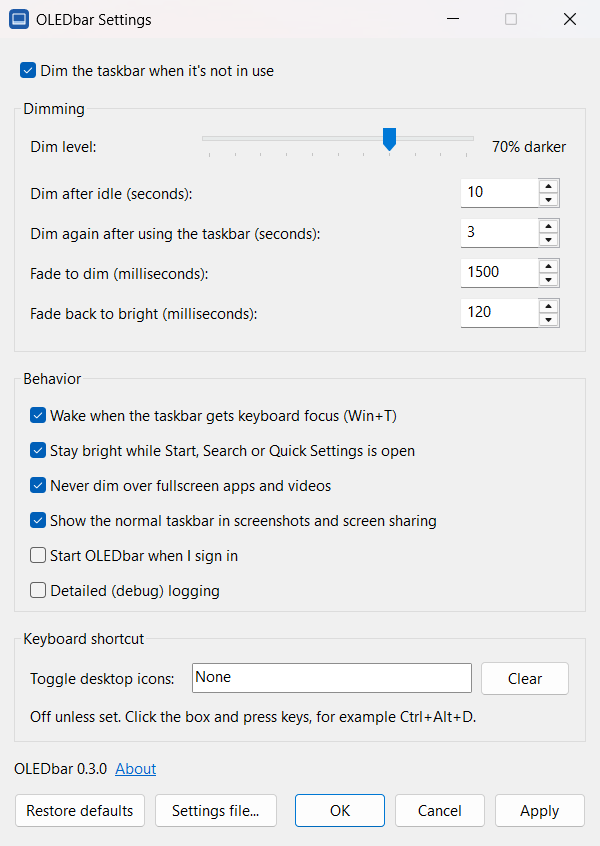
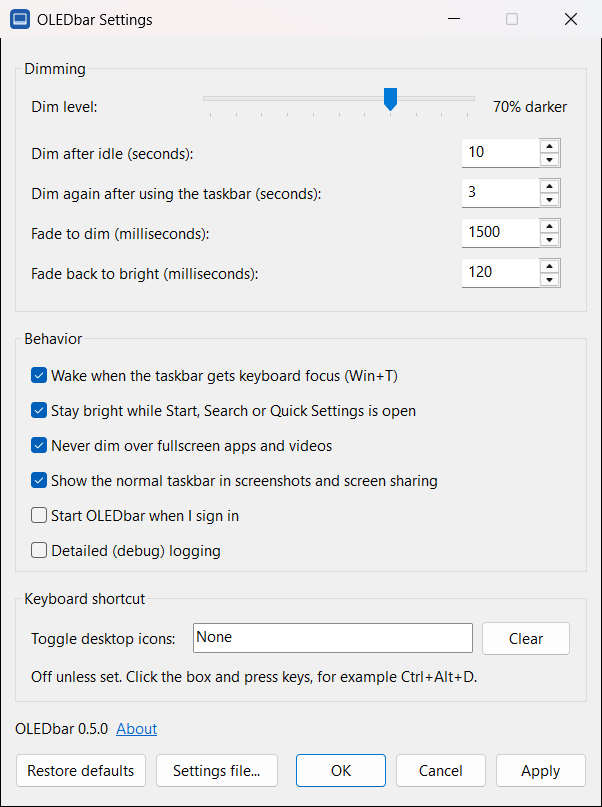
Remove dimming checkbox from settings; release 0.5.0

diff --git a/site/index.html b/site/index.html
@@ -50,7 +50,7 @@
         </a>
         <a class="btn btn-ghost" href="https://github.com/midimaxi-dev/OLEDbar">View source on GitHub</a>
       </div>
-      <p class="meta"><span data-version>v0.3.0</span> · ~700 KB · &lt;1 MB idle working set in testing · Windows 11 22H2+ · Free and open source (MIT)</p>
+      <p class="meta"><span data-version>v0.5.0</span> · ~700 KB · &lt;1 MB idle working set in testing · Windows 11 22H2+ · Free and open source (MIT)</p>
 
       <div class="stage stage-hero" data-demo="hero">
         <div class="wallpaper" aria-hidden="true"></div>
@@ -131,7 +131,7 @@
           </div>
         </div>
         <figure class="shot">
-          <img src="assets/settings.png" width="477" height="643" loading="lazy" alt="The OLEDbar settings panel: dim level slider, delays, fade durations, behavior options and a keyboard shortcut for desktop icons.">
+          <img src="assets/settings.png" width="477" height="639" loading="lazy" alt="The OLEDbar settings panel: dim level slider, delays, fade durations, behavior options and a keyboard shortcut for desktop icons.">
           <figcaption>The real settings panel. Left-click the tray icon to open it.</figcaption>
         </figure>
       </div>
@@ -180,7 +180,7 @@
     <!-- Download -->
     <section class="download" id="download" aria-labelledby="dl-title">
       <h2 id="dl-title" class="center">Give your taskbar a break.</h2>
-      <p class="center sub">Windows 11 22H2 or later · x64 · <span data-version>v0.3.0</span></p>
+      <p class="center sub">Windows 11 22H2 or later · x64 · <span data-version>v0.5.0</span></p>
       <div class="dl-grid">
         <a class="dl-card dl-primary" data-dl="setup" href="https://github.com/midimaxi-dev/OLEDbar/releases/latest">
           <span class="dl-kind">Installer</span>
@@ -193,7 +193,7 @@
           <span class="dl-desc">Unzip and run OLEDbar.exe. Nothing to install. Delete the folder to remove it.</span>
         </a>
       </div>
-      <p class="fine center">Releases are currently unsigned, so Windows may show a warning. Checksums are in <code>SHA256SUMS.txt</code> on the release page.</p>
+      <p class="fine center">Signed with Microsoft Artifact Signing. Windows may still show a SmartScreen warning while download reputation builds. Checksums are in <code>SHA256SUMS.txt</code> on the release page.</p>
     </section>
 
     <!-- FAQ -->
@@ -203,9 +203,10 @@
         <details><summary>Does it work with auto-hide?</summary><p>Yes. The overlay hides while the taskbar is hidden and can resume when it reappears.</p></details>
         <details><summary>Does it affect fullscreen apps?</summary><p>By default, OLEDbar hides its overlay when it detects a fullscreen app or video.</p></details>
         <details><summary>Does it show up in screenshots?</summary><p>Normally not. By default, OLEDbar asks Windows to exclude the dimming overlay from screenshots and screen sharing. You can change this in Settings.</p></details>
+        <details><summary>Does it work if my taskbar isn't at the bottom?</summary><p>Yes. OLEDbar dims the taskbar wherever it's docked: bottom, top, left or right edge of the screen.</p></details>
         <details><summary>Does it support multiple monitors?</summary><p>Yes, but only the primary display's taskbar is dimmed. Additional taskbars are not dimmed yet.</p></details>
         <details><summary>Does it need admin rights?</summary><p>No. Both the per-user installer and the portable app run without administrator rights.</p></details>
-        <details><summary>Is it signed?</summary><p>Not yet. Windows may warn about or block unsigned apps. If Smart App Control blocks OLEDbar, wait for a signed release.</p></details>
+        <details><summary>Is it signed?</summary><p>Yes. OLEDbar is signed and timestamped with Microsoft Artifact Signing. SmartScreen may still warn while download reputation builds.</p></details>
         <details><summary>How do I check for updates?</summary><p>Open About from Settings or the tray menu, then select Check for updates. OLEDbar never checks, downloads or installs updates automatically.</p></details>
         <details><summary>Does it send data anywhere?</summary><p>The OLEDbar app contacts GitHub only when you choose to check for updates; GitHub receives the connection's public IP address and OLEDbar version. Settings and logs stay in <code>%LOCALAPPDATA%\OLEDbar</code>. This website separately requests current release details from GitHub when opened.</p></details>
       </div>

diff --git a/src/app/app_host.cpp b/src/app/app_host.cpp
@@ -413,11 +413,20 @@ void AppHost::Resume() {
     UpdateTray();
 }
 
+void AppHost::TurnDimmingOn() {
+    Settings settings = settings_;
+    settings.enabled = true;
+    if (!settingsStore_.Save(settings)) {
+        log::Info(L"Saving settings failed ({}); dimming is on until OLEDbar restarts", GetLastError());
+    }
+    ApplySettings(settings);
+}
+
 void AppHost::UpdateTray() {
     const bool active = pause_ == PauseMode::None && settings_.enabled;
     std::wstring tip;
     if (!settings_.enabled) {
-        tip = L"OLEDbar - disabled in settings";
+        tip = L"OLEDbar - off (right-click and choose Resume)";
     } else if (pause_ == PauseMode::Timed) {
         tip = std::format(L"OLEDbar - paused until {:02}:{:02}", pauseEnd_.wHour, pauseEnd_.wMinute);
     } else if (pause_ == PauseMode::UntilResumed) {
@@ -515,7 +524,10 @@ void AppHost::FinishUpdateCheck() {
     aboutDialog_.SetResult(*result);
 }
 
-bool AppHost::ApplyFromDialog(const Settings& settings, bool runAtStartup) {
+bool AppHost::ApplyFromDialog(const Settings& dialogSettings, bool runAtStartup) {
+    // The panel has no control for `enabled`; keep the current value (set in settings.json or by tray Resume).
+    Settings settings = dialogSettings;
+    settings.enabled = settings_.enabled;
     // Claim the shortcut first, so a conflict keeps the dialog open and nothing is saved.
     if (!SetDesktopIconsHotkey(settings.toggleDesktopIconsHotkey)) {
         SetDesktopIconsHotkey(settings_.toggleDesktopIconsHotkey);
@@ -996,7 +1008,7 @@ void AppHost::ShowTrayMenu(POINT anchor) {
     }
     AppendMenuW(menu.get(), MF_STRING | MF_GRAYED, 0, L"OLEDbar " OLEDBAR_VERSION_WSTRING);
     AppendMenuW(menu.get(), MF_SEPARATOR, 0, nullptr);
-    if (pause_ != PauseMode::None) {
+    if (pause_ != PauseMode::None || !settings_.enabled) {
         AppendMenuW(menu.get(), MF_STRING, kCmdResume, L"Resume");
     } else {
         // Owned by `menu` once appended; destroyed with it.
@@ -1004,8 +1016,7 @@ void AppHost::ShowTrayMenu(POINT anchor) {
         AppendMenuW(pauseMenu, MF_STRING, kCmdPause15, L"For 15 minutes");
         AppendMenuW(pauseMenu, MF_STRING, kCmdPause60, L"For 1 hour");
         AppendMenuW(pauseMenu, MF_STRING, kCmdPauseUntilResumed, L"Until I resume");
-        AppendMenuW(menu.get(), MF_POPUP | (settings_.enabled ? MF_ENABLED : MF_GRAYED),
-                    reinterpret_cast<UINT_PTR>(pauseMenu), L"Pause");
+        AppendMenuW(menu.get(), MF_POPUP, reinterpret_cast<UINT_PTR>(pauseMenu), L"Pause");
     }
     const bool canDim = machine_.State() != DimState::Suppressed;
     AppendMenuW(menu.get(), MF_STRING | (canDim ? MF_ENABLED : MF_GRAYED), kCmdDimNow, L"Dim now");
@@ -1043,6 +1054,9 @@ void AppHost::ShowTrayMenu(POINT anchor) {
         break;
     case kCmdResume:
         Resume();
+        if (!settings_.enabled) {
+            TurnDimmingOn();
+        }
         break;
     case kCmdDimNow:
         UpdateFullscreen();

diff --git a/src/app/settings_dialog.cpp b/src/app/settings_dialog.cpp
@@ -236,7 +236,6 @@ void SettingsDialog::InitializeControls() {
 }
 
 void SettingsDialog::Load(const Settings& settings, bool runAtStartup) {
-    SetCheck(hwnd_, IDC_ENABLED, settings.enabled);
     SendDlgItemMessageW(hwnd_, IDC_DIM_SLIDER, TBM_SETPOS, TRUE, std::lround(settings.dimLevelPercent));
     UpdateDimLabel();
     SetNumber(hwnd_, IDC_IDLE_EDIT, settings.idleTimeoutSeconds);
@@ -272,7 +271,6 @@ bool SettingsDialog::Read(Settings& settings, bool& runAtStartup) {
         return false;
     }
 
-    settings.enabled = GetCheck(hwnd_, IDC_ENABLED);
     settings.dimLevelPercent = DimLevel();
     settings.idleTimeoutSeconds = values[0];
     settings.redimDelaySeconds = values[1];

diff --git a/src/app/app_host.h b/src/app/app_host.h
@@ -51,6 +51,8 @@ private:
     void OnToggleDesktopIcons(const wchar_t* source);
     void Pause(PauseMode mode, UINT minutes);
     void Resume();
+    // Tray Resume while `enabled` is false: saves enabled=true and applies it.
+    void TurnDimmingOn();
     void UpdateTray();
     void OpenFile(const std::wstring& path);
     void ShowSettings();

diff --git a/src/app/resource.h b/src/app/resource.h
@@ -8,7 +8,6 @@
 #define IDD_SETTINGS 100
 #define IDD_ABOUT 101
 
-#define IDC_ENABLED 1001
 #define IDC_DIM_SLIDER 1002
 #define IDC_DIM_VALUE 1003
 #define IDC_IDLE_EDIT 1004

diff --git a/README.md b/README.md
@@ -6,10 +6,11 @@
 
 After a few seconds without mouse activity on the Windows 11 taskbar, a dark, click-through layer fades in over it, even if the pointer is parked on it. This dims the background, icons, text, clock and tray. Moving onto or within the taskbar, clicking or scrolling wakes it. It stays bright during a drag and, by default, while Start or Search is open.
 
-> **Status:** version 0.4.1, a usable early release.
+> **Status:** version 0.5.0, a usable early release.
 
 - **Tiny footprint, not a heavy suite:** a **~715 KB release EXE**, using **under 1 MB of idle private working set** in our local test (as shown in Task Manager; memory use varies by system). No runtime to install; no admin rights required.
 - No injection into Explorer: it only draws a click-through layer above the taskbar.
+- Dims the taskbar wherever it's docked: bottom, top, left or right edge of the screen.
 - Settings panel with a live preview of the dim level on your taskbar.
 - By default, hides the overlay for fullscreen apps and when the taskbar is auto-hidden.
 - By default, keeps the dimming overlay out of supported screenshots and screen sharing.
@@ -34,9 +35,9 @@ Get the latest version from **[Releases](https://github.com/midimaxi-dev/OLEDbar
 | `OLEDbar-<version>-x64-setup.exe` | Most people. Installs for your user only, no admin rights. Adds a Start menu entry, can start OLEDbar when you sign in, and appears in *Settings → Apps* for uninstalling. |
 | `OLEDbar-<version>-x64.zip` | Portable use. Unzip anywhere and run `OLEDbar.exe`. Turn on *Start OLEDbar when I sign in* in its settings if you like. |
 
-`SHA256SUMS.txt` lists checksums for both files. To verify a download, compare its hash with the matching entry, for example: `Get-FileHash .\OLEDbar-0.4.1-x64-setup.exe`.
+`SHA256SUMS.txt` lists checksums for both files. To verify a download, compare its hash with the matching entry, for example: `Get-FileHash .\OLEDbar-0.5.0-x64-setup.exe`.
 
-Windows may warn about unsigned releases; see [Unsigned releases](#unsigned-releases).
+Releases are signed with Microsoft Artifact Signing. Windows SmartScreen may still warn while download reputation builds; see [Code signing policy](#code-signing-policy).
 
 ## Settings
 
@@ -62,7 +63,7 @@ Checks are always initiated by you; OLEDbar does not automatically check, downlo
 - **Does it show up in screenshots?** Normally not. By default, OLEDbar asks Windows to exclude the dimming overlay from screenshots and screen sharing; you can change this in Settings.
 - **Does it support multi-monitor?** Yes, but only the primary display's taskbar is dimmed. Additional taskbars are not dimmed yet.
 - **Does it require admin rights?** No. Both the per-user installer and the portable app run without administrator rights.
-- **Is it signed?** Releases produced by the signing-enabled workflow are signed and timestamped with Microsoft Artifact Signing. SmartScreen warnings may still appear while download reputation builds; older releases remain unsigned.
+- **Is it signed?** Yes. OLEDbar is signed and timestamped with Microsoft Artifact Signing. SmartScreen warnings may still appear while download reputation builds.
 - **Does it send data anywhere?** Only if you choose to check for updates. GitHub receives the connection's public IP address and the OLEDbar version; settings and logs stay local. See [Privacy](#privacy).
 
 ## Uninstall
@@ -153,7 +154,7 @@ The same settings are stored in `%LOCALAPPDATA%\OLEDbar\settings.json` (the pane
 
 | Key | Default | Meaning |
 |---|---|---|
-| `enabled` | `true` | `false` turns dimming off until you set it back |
+| `enabled` | `true` | `false` turns dimming off and keeps it off after restarts. Not shown in the settings panel; right-click the tray icon and choose **Resume** to turn it back on |
 | `idleTimeoutSeconds` | `10` | Delay before dimming while the pointer is stationary on the taskbar, at startup, and after a pause or fullscreen app (1–3600) |
 | `redimDelaySeconds` | `3` | Delay before dimming after the pointer leaves the taskbar or Start/Search closes with the pointer elsewhere (0–3600) |
 | `dimLevelPercent` | `70` | How much light to remove: 0 = none, 100 = black |
@@ -188,7 +189,7 @@ This writes `OLEDbar-<version>-x64.zip`, `SHA256SUMS.txt` and, if [Inno Setup 6]
 1. Bump `project(... VERSION x.y.z)` in `CMakeLists.txt` and commit. This is the only place the version is set.
 2. Tag and push:
    ```powershell
-   git tag v0.4.1; git push origin v0.4.1
+   git tag v0.5.0; git push origin v0.5.0
    ```
 3. The workflow checks that the tag matches the project version, builds, and creates a **draft** GitHub Release with the installer, zip and checksums. Review it on GitHub, then click **Publish**.
 
@@ -235,7 +236,7 @@ The signing job runs only for version tags and uses GitHub OpenID Connect (OIDC)
 
 For stronger release protection, require approval for the `release` environment and restrict who can create version tags.
 
-Previous releases remain unchanged and unsigned. SmartScreen reputation can take time to build even for signed files.
+SmartScreen reputation can take time to build even for signed files.
 
 ## License
 
